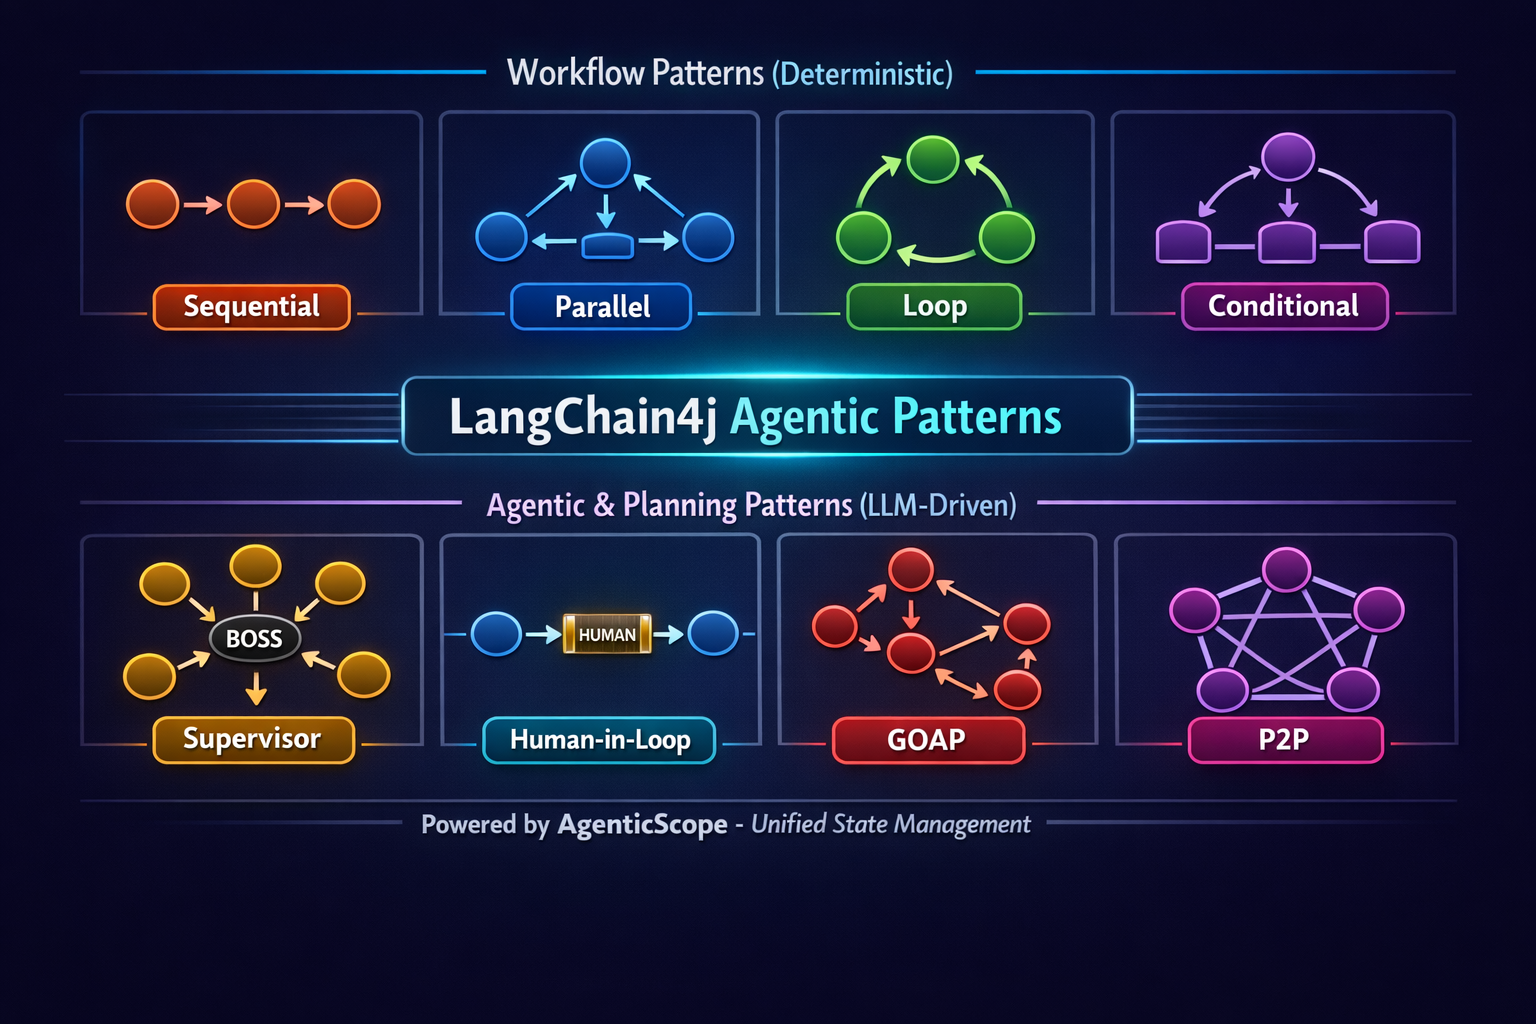
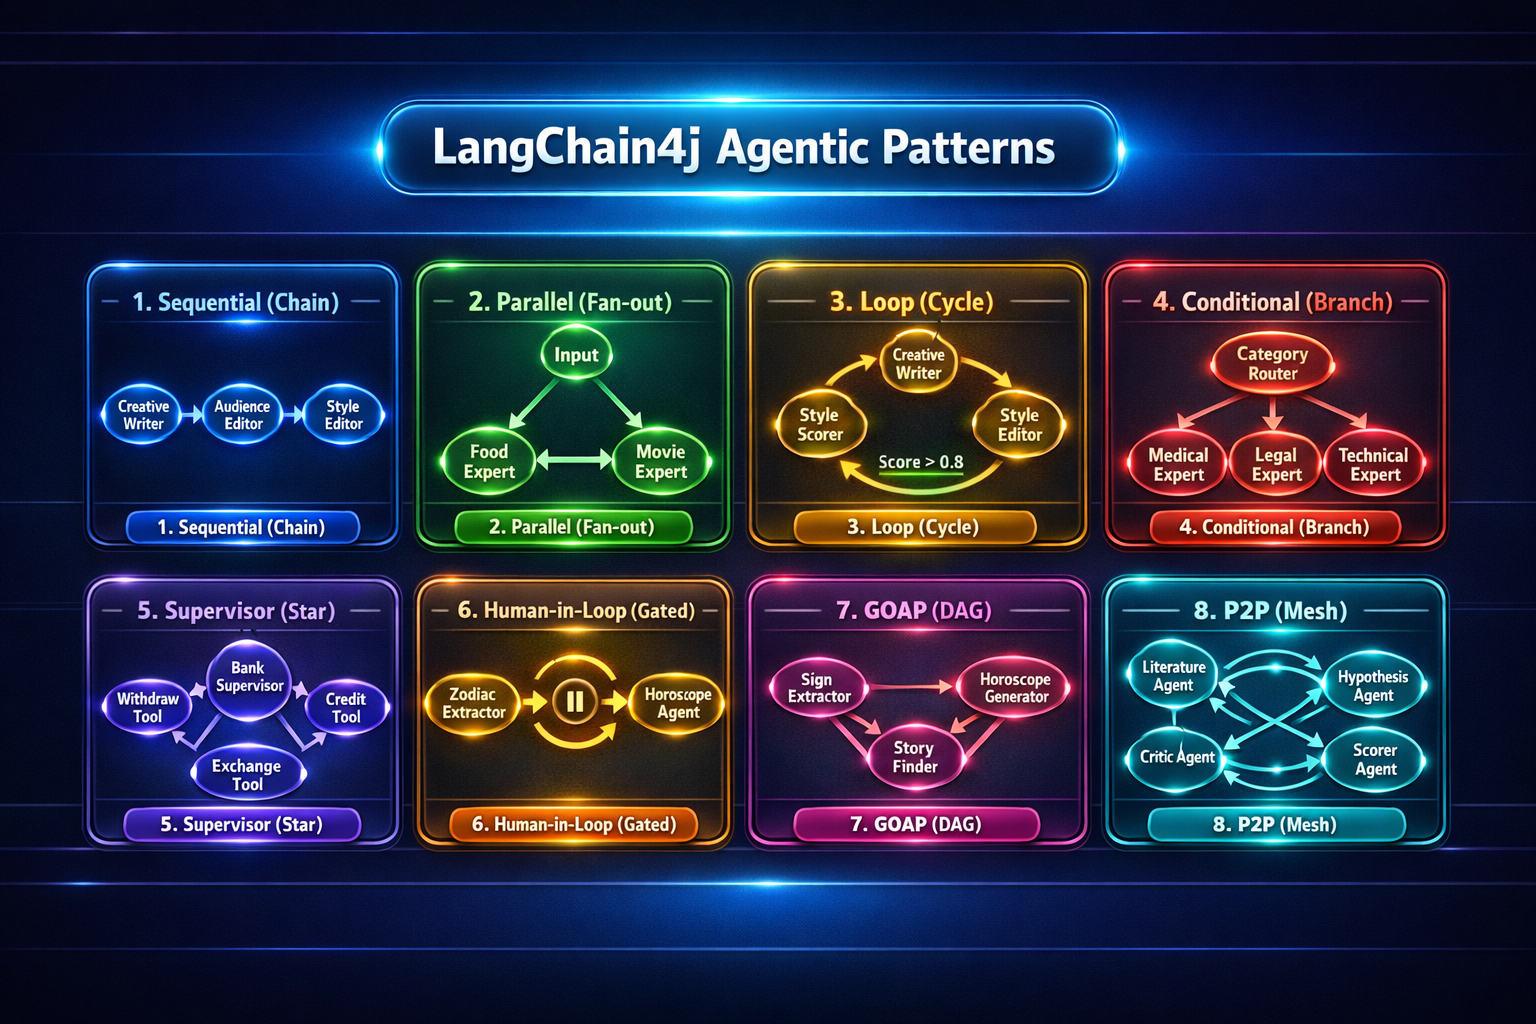
Refactor subtitles in Dashboard and PPTX generation for clarity
- Updated subtitles in Dashboard.tsx to simplify descriptions of workflow patterns.
- Revised subtitles in generate_pptx.py to remove "Deterministic" and "LLM-Driven" terminology for a more streamlined presentation of orchestration types.

diff --git a/frontend/src/pages/Dashboard.tsx b/frontend/src/pages/Dashboard.tsx
@@ -56,7 +56,7 @@ export default function Dashboard({ patterns }: DashboardProps) {
           <div>
             <h2 className="text-2xl font-bold">Workflow Patterns</h2>
             <p className="text-matrix-secondary text-sm">
-              Deterministic, structured agent orchestration
+              Structured agent orchestration
             </p>
           </div>
         </div>
@@ -76,7 +76,7 @@ export default function Dashboard({ patterns }: DashboardProps) {
           <div>
             <h2 className="text-2xl font-bold">Agentic Patterns</h2>
             <p className="text-matrix-secondary text-sm">
-              LLM-driven autonomous orchestration
+              Autonomous agent orchestration
             </p>
           </div>
         </div>

diff --git a/generate_pptx.py b/generate_pptx.py
@@ -115,7 +115,7 @@ add_image_centered(slide, os.path.join(DOCS, "patterns-overview.png"), Inches(1.
 patterns = [
     {
         "title": "1. Sequential Workflow",
-        "subtitle": "Chain — Deterministic Orchestration",
+        "subtitle": "Chain Orchestration",
         "image": "pattern-sequential.png",
         "bullets": [
             "Agents run one after another, like an assembly line",
@@ -126,7 +126,7 @@ patterns = [
     },
     {
         "title": "2. Parallel Workflow",
-        "subtitle": "Fan-out — Deterministic Orchestration",
+        "subtitle": "Fan-out Orchestration",
         "image": "pattern-parallel.png",
         "bullets": [
             "Multiple agents run simultaneously, results combined",
@@ -137,7 +137,7 @@ patterns = [
     },
     {
         "title": "3. Loop Workflow",
-        "subtitle": "Cycle — Deterministic Orchestration",
+        "subtitle": "Cycle Orchestration",
         "image": "pattern-loop.png",
         "bullets": [
             "Iterative refinement until quality threshold is met",
@@ -148,7 +148,7 @@ patterns = [
     },
     {
         "title": "4. Conditional Routing",
-        "subtitle": "Branch — Deterministic Orchestration",
+        "subtitle": "Branch Orchestration",
         "image": "pattern-conditional.png",
         "bullets": [
             "Routes to different specialist agents based on input",
@@ -159,7 +159,7 @@ patterns = [
     },
     {
         "title": "5. Supervisor Agent",
-        "subtitle": "Star — LLM-Driven Orchestration",
+        "subtitle": "Star Orchestration",
         "image": "pattern-supervisor.png",
         "bullets": [
             "A 'boss' agent plans and delegates to worker agents",
@@ -170,7 +170,7 @@ patterns = [
     },
     {
         "title": "6. Human-in-the-Loop",
-        "subtitle": "Gated — LLM-Driven Orchestration",
+        "subtitle": "Gated Orchestration",
         "image": "pattern-humaninloop.png",
         "bullets": [
             "Pauses execution for human input or approval",

diff --git a/README.md b/README.md
@@ -36,7 +36,7 @@ A showcase application demonstrating **8 agentic patterns** from LangChain4j wit
 
 <img src="docs/patterns-overview.png" alt="All 8 Agentic Patterns Overview — Sequential, Parallel, Loop, Conditional, Supervisor, Human-in-the-Loop, GOAP, and P2P" width="800"/>
 
-### Workflow Patterns (Deterministic Orchestration)
+### Workflow Patterns
 | Pattern | Description | Topology |
 |---------|-------------|----------|
 | **Sequential** | Agents invoked one after another in order | Chain |
@@ -44,7 +44,7 @@ A showcase application demonstrating **8 agentic patterns** from LangChain4j wit
 | **Loop** | Iterative refinement until exit condition | Cycle |
 | **Conditional** | Routes to different agents based on conditions | Branch |
 
-### Agentic Patterns (LLM-Driven Orchestration)
+### Agentic Patterns
 | Pattern | Description | Topology |
 |---------|-------------|----------|
 | **Supervisor** | LLM plans and orchestrates sub-agents | Star |
@@ -74,7 +74,7 @@ Think of agents like specialized workers in a factory - each has a specific job,
 
 ### Workflow Patterns
 
-These patterns follow **deterministic rules** - you define exactly how agents interact.
+These patterns follow **structured rules** - you define exactly how agents interact.
 
 #### 1. Sequential Workflow (Chain)
 
@@ -165,7 +165,7 @@ These patterns use **LLM intelligence** to decide how agents interact.
 **Example prompt:** *"Transfer 100 USD from Mario to Georgios, then convert 50 USD to EUR"*
 - BankSupervisor delegates to: WithdrawAgent, CreditAgent, ExchangeAgent
 
-<img src="docs/pattern-supervisor.png" alt="Supervisor Pattern — LLM-driven star topology: BankSupervisor agent uses AI to plan and decompose complex requests, then delegates subtasks to WithdrawAgent, CreditAgent, and ExchangeAgent. The supervisor dynamically orchestrates based on the input." width="800"/>
+<img src="docs/pattern-supervisor.png" alt="Supervisor Pattern — star topology: BankSupervisor agent plans and decomposes complex requests, then delegates subtasks to WithdrawAgent, CreditAgent, and ExchangeAgent. The supervisor dynamically orchestrates based on the input." width="800"/>
 
 ---
 
@@ -654,8 +654,8 @@ The `.env` file keeps your Azure OpenAI credentials out of source control. It's 
 <details>
 <summary><strong>What's the difference between "Workflow" and "Agentic" patterns?</strong></summary>
 
-- **Workflow patterns** (Sequential, Parallel, Loop, Conditional) are **deterministic** — you define exactly how agents interact in code.
-- **Agentic patterns** (Supervisor, Human-in-the-Loop) are **LLM-driven** — the LLM decides how to orchestrate agents at runtime.
+- **Workflow patterns** (Sequential, Parallel, Loop, Conditional) — you define exactly how agents interact in code.
+- **Agentic patterns** (Supervisor, Human-in-the-Loop) — the LLM decides how to orchestrate agents at runtime.
 - **Planning patterns** (GOAP, P2P) use **specialized algorithms** to determine the optimal agent execution plan.
 </details>
 
